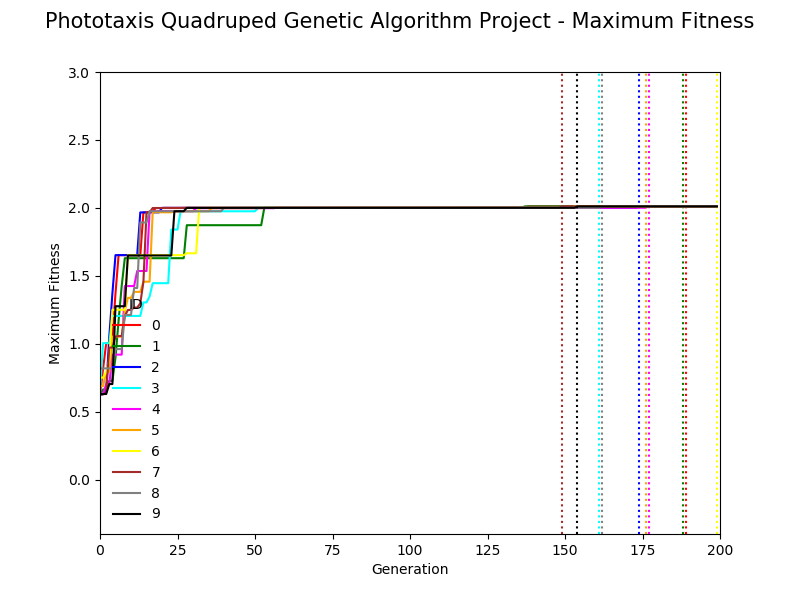
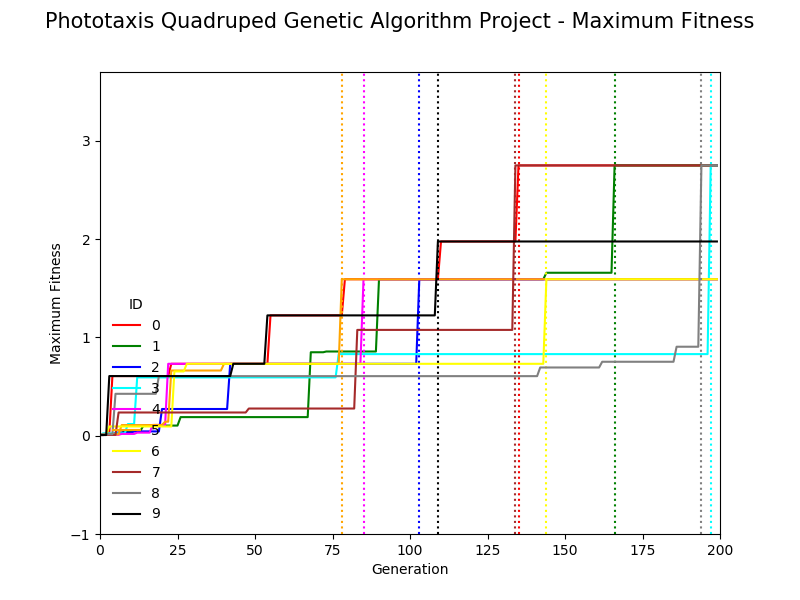
Deactivate light sensor gain and set Tau=1 and evalTime=2000 to generate rubustly fit robot.

diff --git a/phototaxis/constants.py b/phototaxis/constants.py
@@ -2,13 +2,14 @@
     https://www.reddit.com/r/ludobots/wiki/pyrosim/phototaxis
 """
 # Robot design parameters
-L = 0.4   # Leg length
-R = L/5   # Leg radius
-D = 10*L  # lidht sensor distance
-G = 10    # light sensor gain
+L = 0.4    # leg length
+R = L/5    # leg radius
+D = 30*L   # light sensor distance
+G = 1.0    # light sensor gain
+Tau = 1.0  # motor neuron time constant
 
 # Evolution simulation parameters
-evalTime = 500   # number of time steps per simulation
+evalTime = 2000  # number of time steps per simulation
 popSize  = 10    # size of population
 numGens  = 200   # number of generations
 numEnvs  = 4     # number of environments
